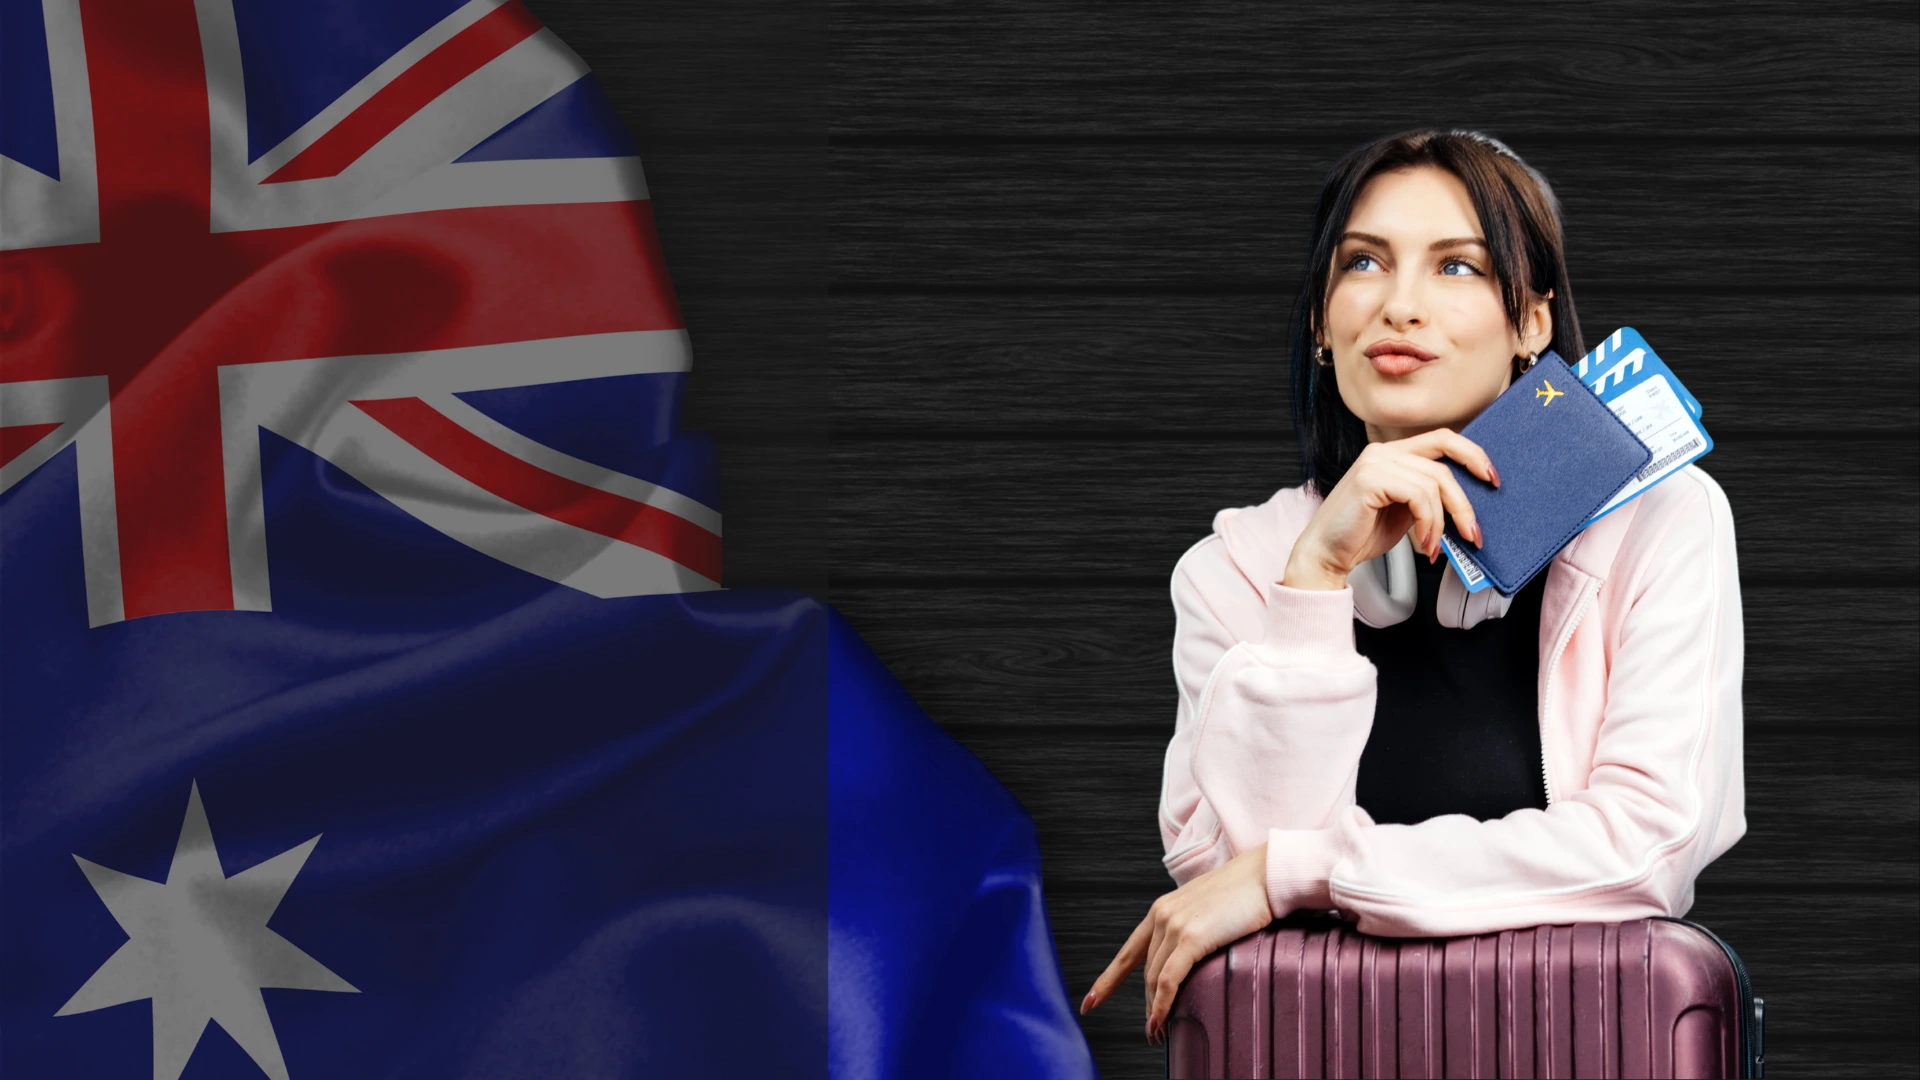
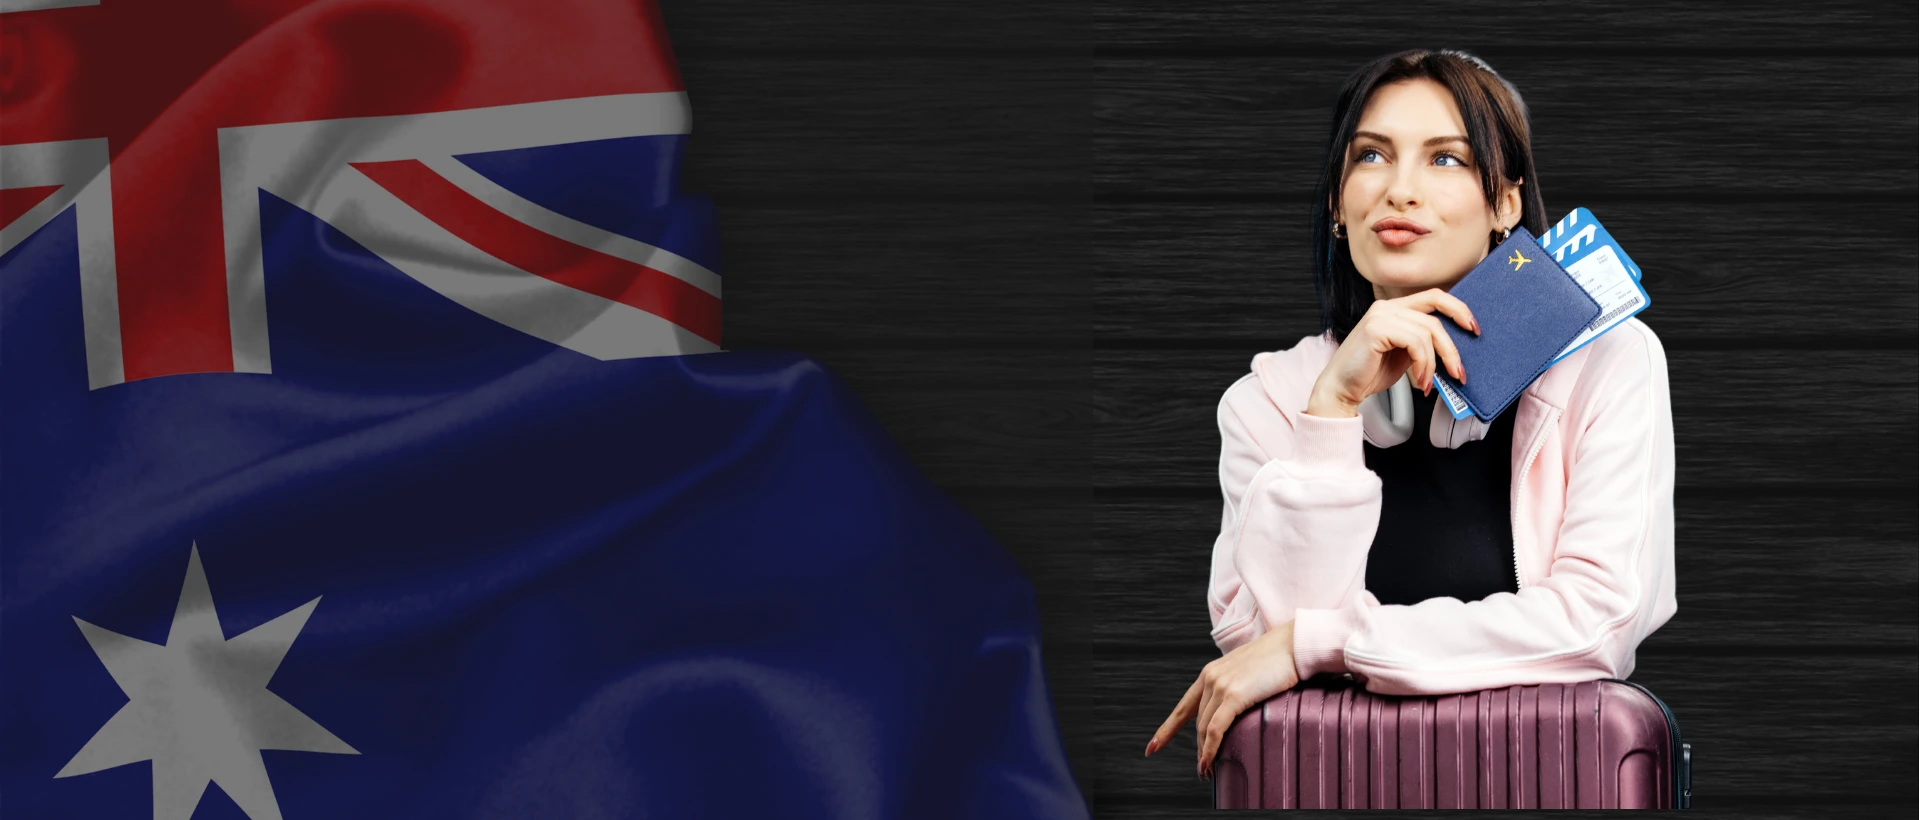
img updation

diff --git a/templates/index.html b/templates/index.html
@@ -53,21 +53,10 @@
         width: 100%;
         height: 100%;
         object-fit: cover;
-        object-position: center 20%;
-    }
-
-    /* Minimal per-slide micro adjustments for natural composition */
-    .hero-slide:nth-child(2) .hero-slide-image {
         object-position: center 18%;
     }
 
-    .hero-slide:nth-child(3) .hero-slide-image {
-        object-position: center 25%;
-    }
-
-    .hero-slide:nth-child(4) .hero-slide-image {
-        object-position: 55% 28%;
-    }
+    /* Same framing for all hero slides */
 
     /* Hero Content */
     .hero-content {

diff --git a/templates/base.html b/templates/base.html
@@ -688,7 +688,6 @@
     </footer>
 
     <script src="https://cdnjs.cloudflare.com/ajax/libs/feather-icons/4.29.0/feather.min.js" integrity="sha512-xA8+9dRYfV4uS8GhUOxtCH1b1qvYlJUSQGtd8BdW6r6MZrRwEkaZIwWkNjHNI8Gx+QTWzn7Aj8LYR7D6y7M4Uw==" crossorigin="anonymous" referrerpolicy="no-referrer"></script>
-    <script src="{{ url_for('static', filename='js/idea-carousel-scroll.js') }}"></script>
     <script>
         function replaceFeatherIcons() {
             if (window.feather) {
